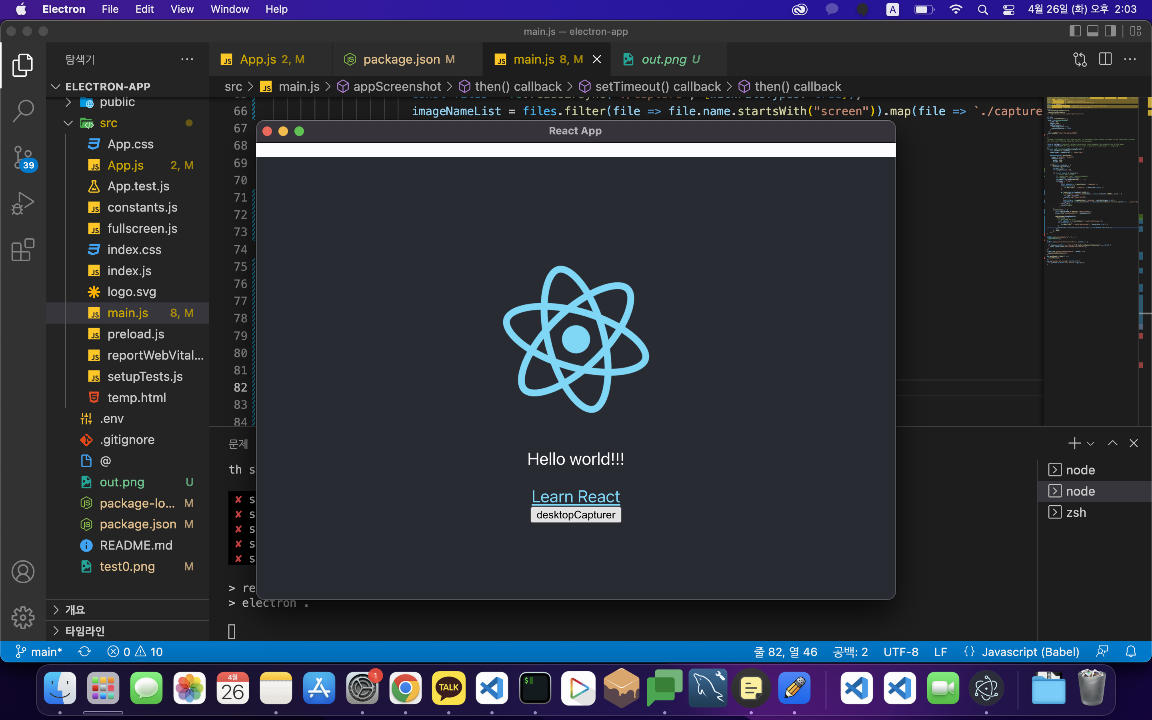
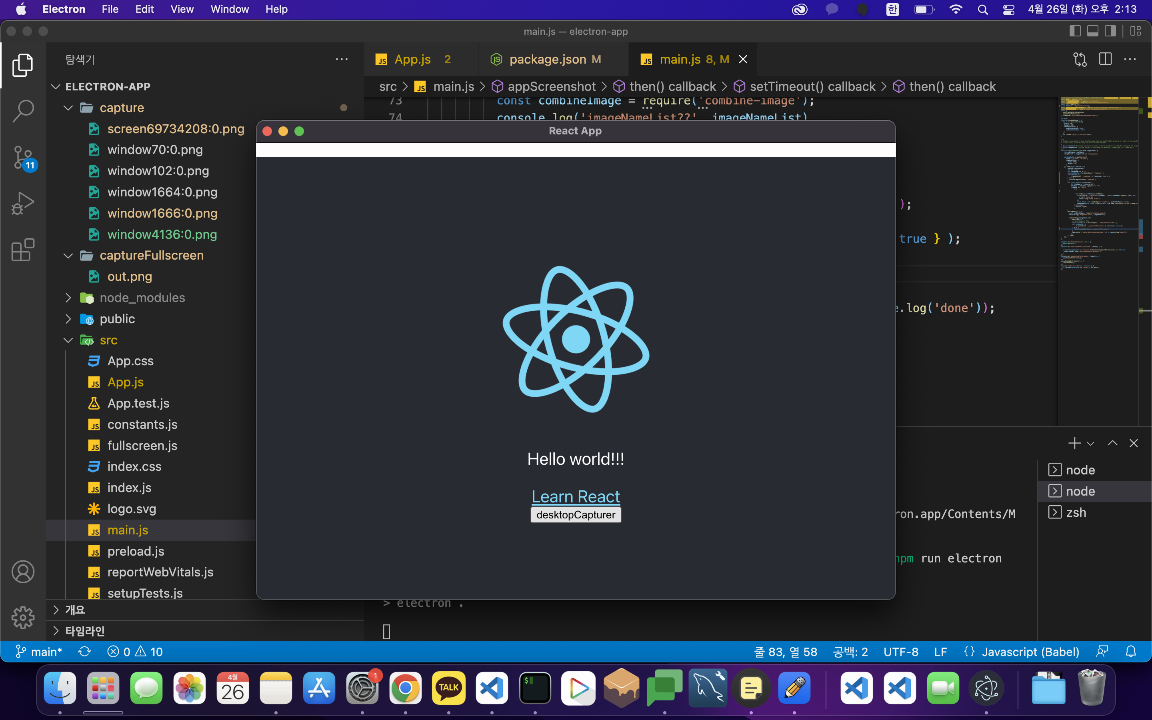
dasfs

diff --git a/src/main.js b/src/main.js
@@ -3,6 +3,7 @@ const path = require('path')
 const { SEND_MAIN_PING } =require('./constants')
 const {takeScreenshot} = require("electron-screencapture");
 const fs = require('fs')
+const fsExtra = require('fs-extra');
 const ElectronShortcutCapture = require('electron-shortcut-capture-patch');
 const CaptureScreen = require('electron-capture-screen');
 const {
@@ -44,18 +45,18 @@ function appScreenshot(callback,imageFormat) {
         console.log(sources);
         let arr = [];
         let imageNameList = [];
-
+        const isExists = fs.existsSync( './capture' );
+        if(!isExists ) {
+            fs.mkdirSync( './capture', { recursive: true } );
+        } else {
+          fsExtra.emptyDirSync('./capture');
+        }
         for (const source of sources) {
-            // Filter: main screen
-            // console.log('jpg??',source.thumbnail)
             let fileName = `${source.id}`;
             fileName = fileName.replace(":", "");
             fileName += ".png";
                 try{
-                  const isExists = fs.existsSync( './capture' );
-                  if( !isExists ) {
-                      fs.mkdirSync( './capture', { recursive: true } );
-                  }
+
 
                   arr.push(source.thumbnail.toPNG());
                     fs.writeFile(`./capture/${fileName}`, source.thumbnail.toPNG(), (err) => {
@@ -78,6 +79,8 @@ function appScreenshot(callback,imageFormat) {
               const isExists = fs.existsSync( './captureFullscreen' );
               if( !isExists ) {
                   fs.mkdirSync( './captureFullscreen', { recursive: true } );
+              } else {
+                fsExtra.emptyDirSync('./captureFullscreen');
               }
               img.write('./captureFullscreen/out.png', () => console.log('done'));
             });
